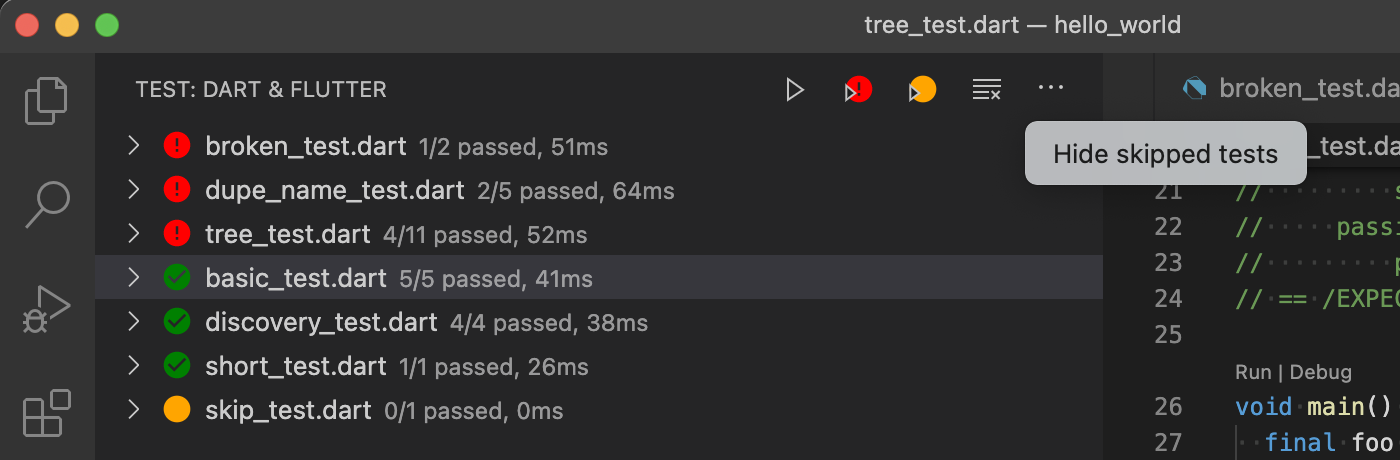
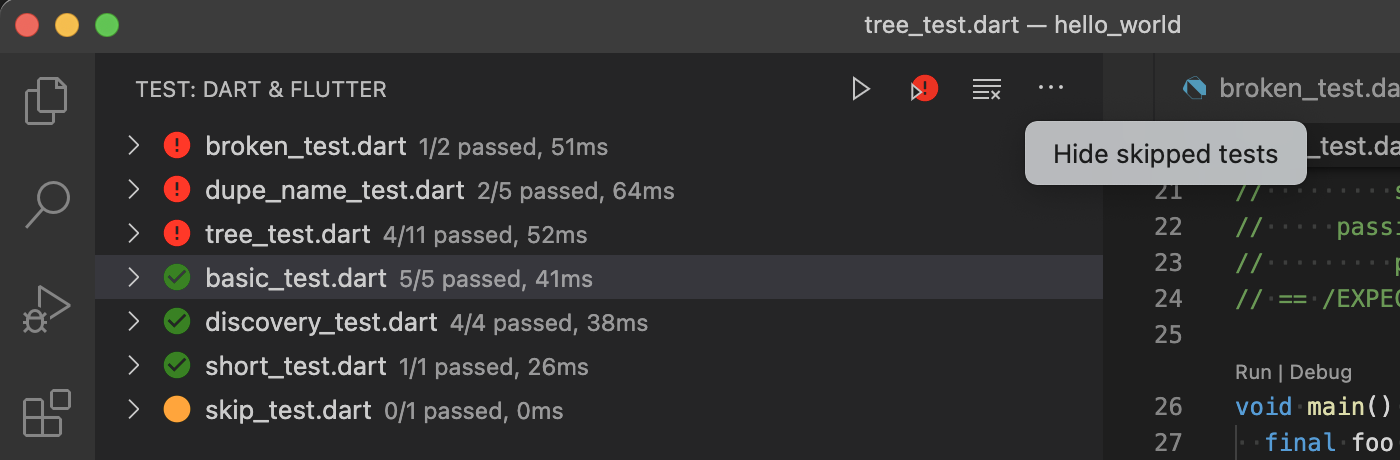
Update release notes to account for temporary removal of Run Skipped Tests

diff --git a/_releases/v3.19.md b/_releases/v3.19.md
@@ -4,13 +4,11 @@ sort_order: v0003_0019
 excerpt: "Test Runner Improvements, Semantic Tokens Highlighting, LSP Improvements"
 ---
 
-# v3.19.0 *2020-01-29*
+# v3.19.1 *2020-01-29*
 
 ## Test Runner
 
-- [#3097](https://github.com/Dart-Code/Dart-Code/issues/3097)/[#3101](https://github.com/Dart-Code/Dart-Code/issues/3101): Explicitly running a single skipped test from the test tree or CodeLens links will now ignore the skipped flag and always run.
-- [#3048](https://github.com/Dart-Code/Dart-Code/issues/3048)/[#3090](https://github.com/Dart-Code/Dart-Code/issues/3090): A new command: **Run Skipped Tests** has been added that functions similar to **Run Failed Tests**, but runs only tests marked as skipped.
-- [#3060](https://github.com/Dart-Code/Dart-Code/issues/3060)/[#3100](https://github.com/Dart-Code/Dart-Code/issues/3100): The **Run/Debug Failed** context menu items and the new **Run/Debug Skipped** context menu items are now available on group nodes in the test tree in addition to suite notes.
+- [#3060](https://github.com/Dart-Code/Dart-Code/issues/3060)/[#3100](https://github.com/Dart-Code/Dart-Code/issues/3100): The **Run/Debug Failed** context menu items are now available on group nodes in the test tree in addition to suite notes.
 - [#3093](https://github.com/Dart-Code/Dart-Code/issues/3093): Test suites should no longer be re-sorted during runs causing them to move around. If their status changes to failed, they will still be promoted to the top.
 - [#3058](https://github.com/Dart-Code/Dart-Code/issues/3058): The "Run All Tests" command now correctly removes stale tests after completing (for example, tests that had been renamed).
 - [#3052](https://github.com/Dart-Code/Dart-Code/issues/3052): Test Discovery should no longer result in duplicate nodes in the test tree on Windows.
